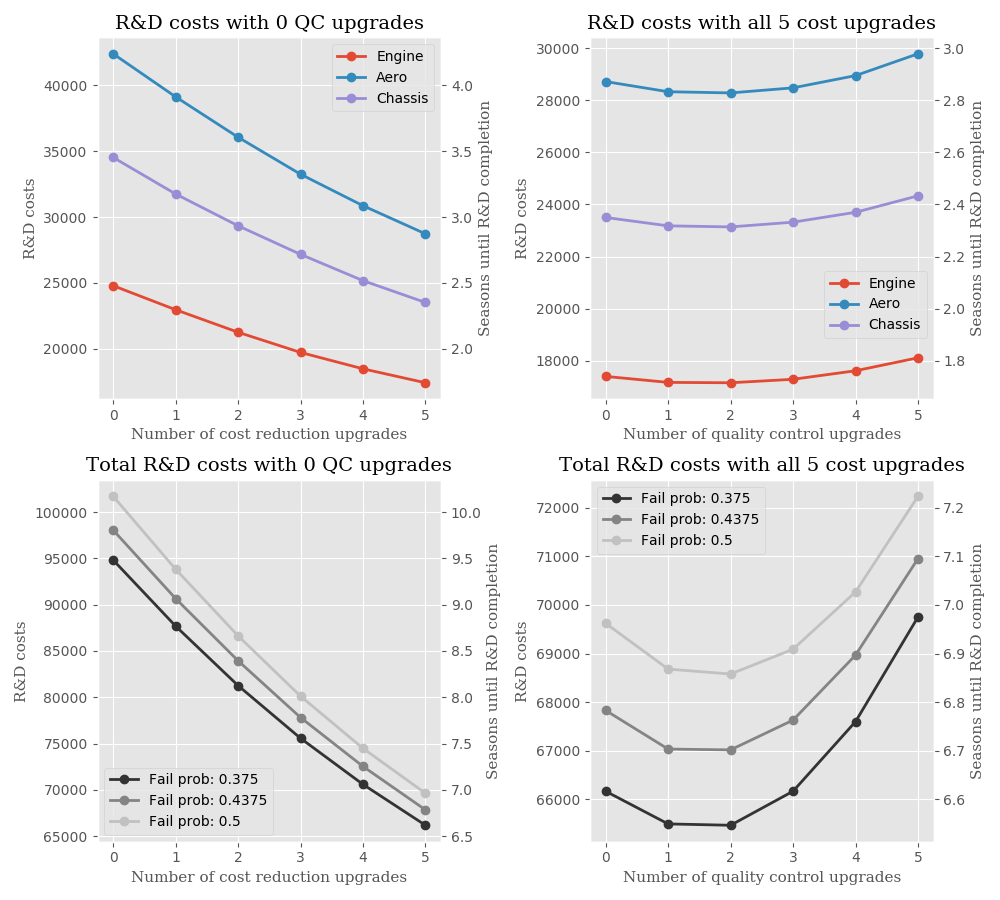
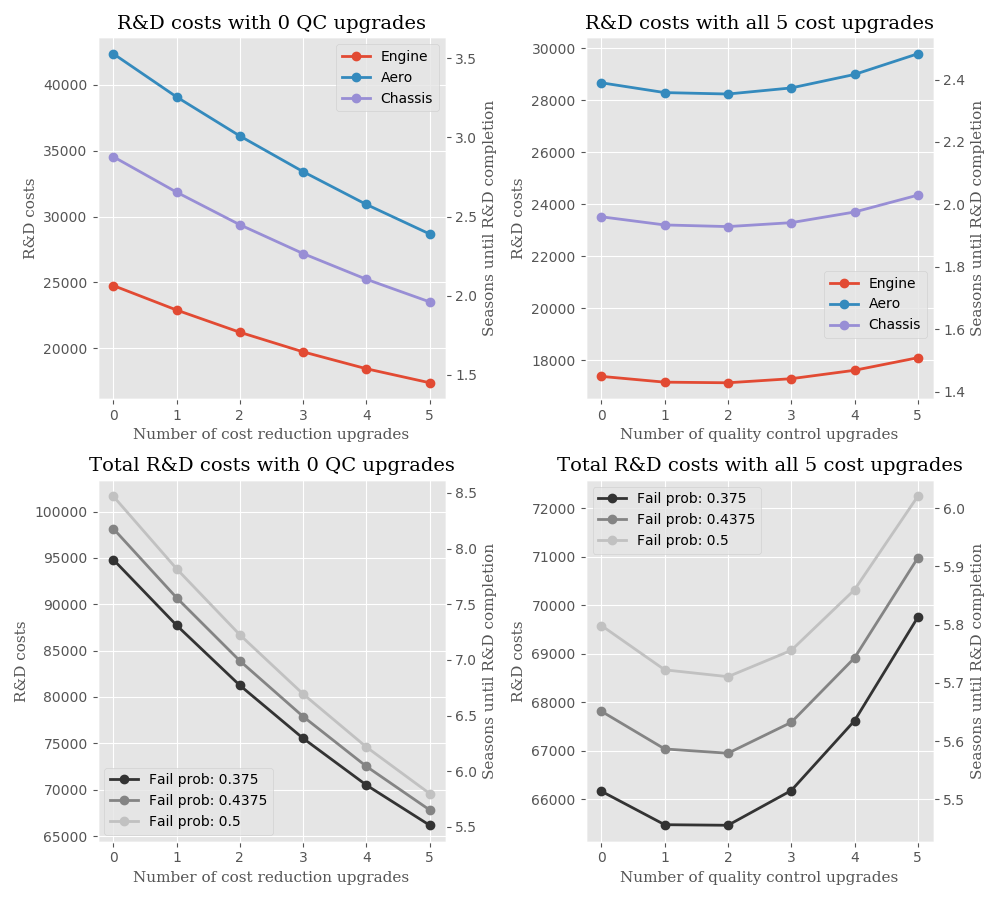
Updated README.md and added new result files.

diff --git a/rnd_statistics.py b/rnd_statistics.py
@@ -52,7 +52,7 @@ for num_pf in range(len(p_fails)):
         for cost_upgs in cost_upgrades:         # For each number of applied cost reduc upgrades
             for fail_upgs in fail_upgrades:     # For each number of applied fail reduc upgrades
                 dep = dp.Department(curr_dep_type, cost_upgs, fail_upgs, p_fails[num_pf])  # Init department
-                curr_total_cost = dep.get_total_costs(num_samples = 1000)   # Compute total costs
+                curr_total_cost = dep.get_total_costs(num_samples = 10000)   # Compute total costs
 
                 if (curr_total_cost > max_total_cost):
                     max_total_cost = curr_total_cost        # Collect max cost path

diff --git a/README.md b/README.md
@@ -1,22 +1,29 @@
 # Simulation of Research and Development in F1 2017
 
-Scripts for conducting statistical simulations of the R&D process in F1 2017. The aim is
-to gain insights into the optimal way to spend resource points in order to develop
-the car in the fastes possible way. The results from running the script is output data in a
-text a file and some plots showing how the R&D costs behave as functions of the cost reduction
-and quality control extra upgrades. In the case where cost reduction or quality control upgrades
-are bought, they are assumed to be purchased at the very start of the R&D process (because this
-would be cheaper than buying them later in the process if you're going to buy them anyway).
+Scripts for conducting statistical simulations of the R&D process in F1 2017. The aim is to gain insights into the optimal way to spend resource points in order to develop the car in the fastes possible way. Data for number of upgrades per department and upgrade costs, are gathered from in-game F1 2017. The results from running the script is output data in a text a file and some plots showing how the R&D costs behave as functions of the cost reduction and quality control extra upgrades. In the case where cost reduction or quality control upgrades are bought, they are assumed to be purchased at the very start of the R&D process (because this would be cheaper than buying them later in the process if you're going to buy them anyway).
+
+## Results
 
 ![Visualization of R&D simulation](results_visual.png)
 
-### Key features to notice about the results:
+### The top two plots visualizes the R&D costs for each perfromance department (not counting the durability upgrades for engine and gearbox) as a function of cost reduction upgrades and quality control upgrades, respectively. The two lower plots show the sum of all three departments and for different choices of the slightly uncertain parameter `p_fail`. (The top two plots use probability `p_fail`=50% that an upgrade will fail on first attempt (see uncertainty discussion below for further info on this)). The left y-axis in each plot shows amount of resource points required while the right y-axis show the number of seasons required assuming 600 resource points earned per race weekend.
 
-* There are significant differences in R&D costs
+Some key features to notice about the results:
 
-## Uncertain parameters
+* There are significant differences in R&D costs depending on department regardless of cost reduction and quality control upgrades. Aero being the most expensive (it has most upgrades and most expensive cost reduction upgrades), engine the cheapest department and chassis somwehere in between.
+
+* Running the simulation many times made it clear that, regardless of number of quality control upgrades applied, it's always beneficial to buy all 5 cost reduction upgrades at the start of development. It gives a slow start to development, but as can be seen in the two left plots of the figure, gives great financial benefit in the long run. This can also be seen from the results in the output [text file](results_text.txt).
+
+* Keeping the above point in mind, we move on to look at the optimal number of quality control (QC) upgrades. Look at the two right plots in the figure. Here it can be seen that the optimal solution for each department (although slightly different) are 2 QC upgrades (1 also being a good option). This provides the best balance between spedning resource points on the QC upgrades and avoiding having to respend on upgrades due to failed upgrades.
+
+* The effect of the parameter `p_fail` (discussed below) can be seen in the two lower plots. And as one might expect, a lower value results in lower overall R&D costs since the probability that each upgrade will fail is less. Also in the lower right plot we can also see, through the rightwards shift that the importance of quality upgrades increases as the failure probability increases. This seems resonable.
+
+* Regarding numbers we see that using the most cost effective development path (that is 5 cost reduction upgrades an 2 QC upgrades), you will need around 65K-70K resource points or 5.5-5.8 seasons (assuming 600 resource points per race weekend (this might be a bit high assumption) in order tu fully develop the performance departments engine, aero and chassis. When counting the durability upgrades as well, you need an additional 11.5K resource points, or 1 more season. This would bring total for 100% upgraded car to 76.5K-81.5K resource points or 6.5-6.8 seasons.
+
+
+## Uncertain prameters
 There are only two somewhat uncertain parameters in the simulation:
-* `p_fail`: The probability that an upgrade will fail on its first attempt before any quality control extra upgrades are applied.Based on the quality control upgrades reducing failure probability by 0.075, it seems like p_fail must at leastbe 0.375 and is most likely not larger than 0.5. Above are the results for a range of p_fails between these values plottet.
+* `p_fail`: The probability that an upgrade will fail on its first attempt before any quality control extra upgrades are applied.Based on the quality control upgrades reducing failure probability by 0.075, it seems like p_fail must at leastbe 0.375 and is most likely not larger than 0.5. Above are the results for a range of `p_fail`'s between these values plottet and, as can be seen, the different choices of `p_fail` does not significantly affect the results and the main conclusions discussed above remain the same.
 
 * Assumed in the model is that the probability for an upgrade to fail, once it has already
 failed, gets reduced by 50%. This occurs if the upgrade would fail a second time as well. Currently
